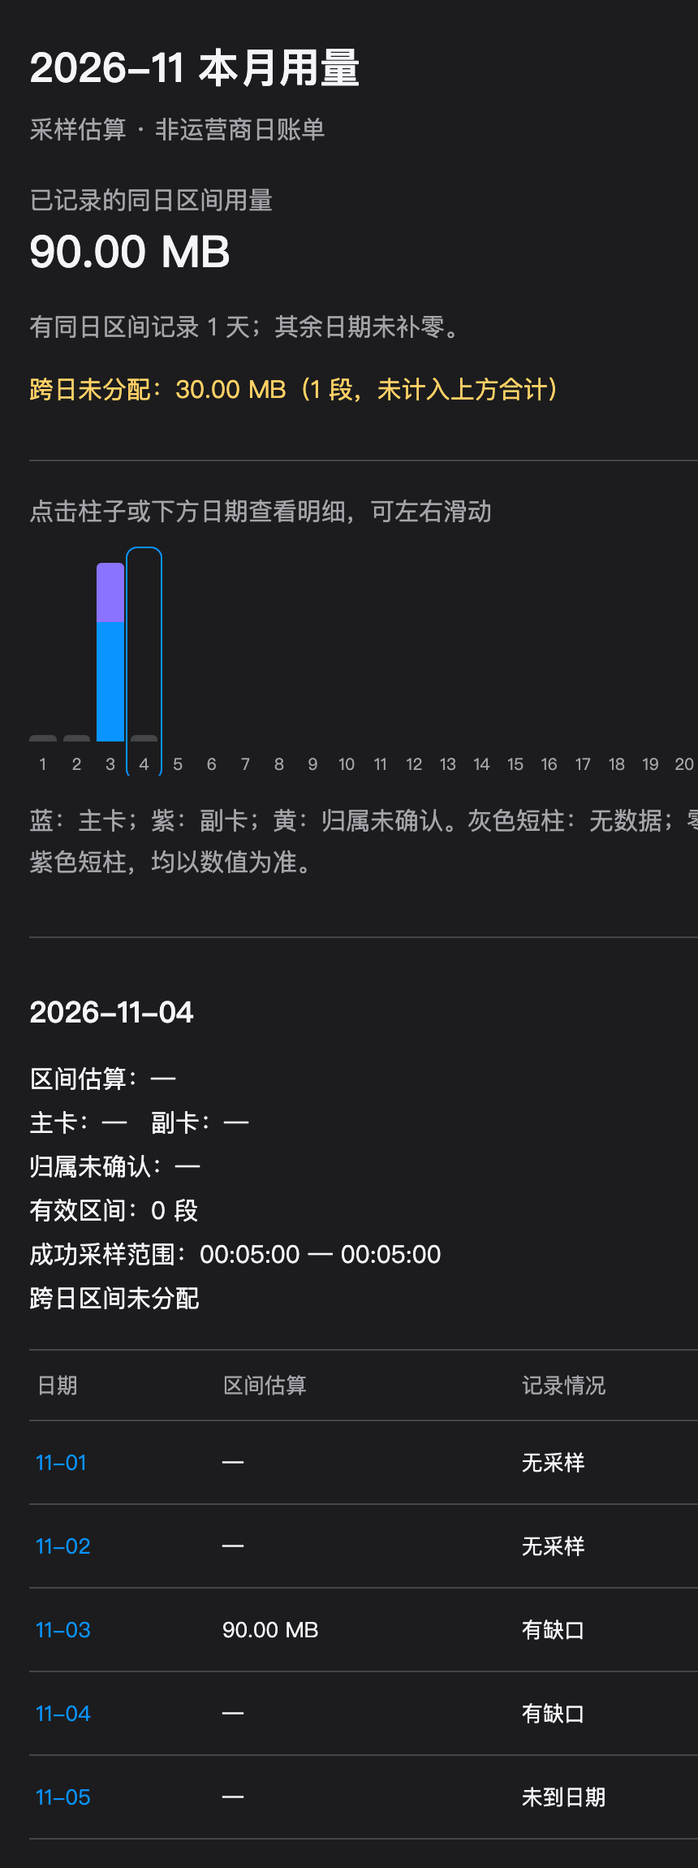
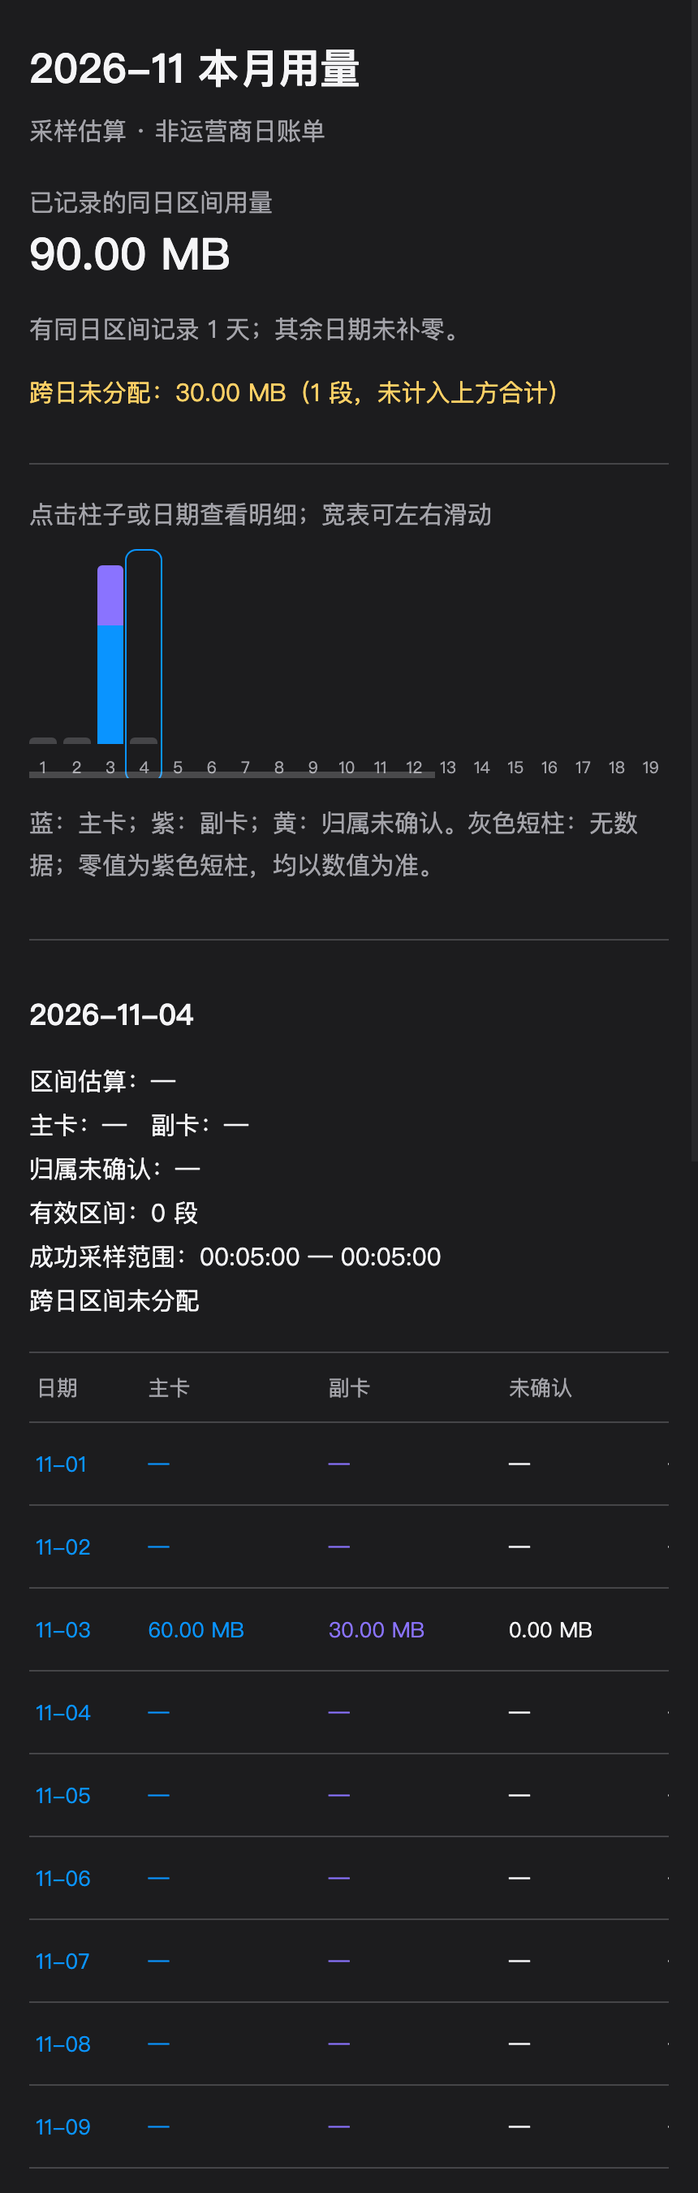
Add per-card report columns and rolling twelve-month usage chart

diff --git a/scriptable/UnicomFlow.js b/scriptable/UnicomFlow.js
@@ -419,7 +419,7 @@ function eventParts(event) {
 function updateMonths(previous, sample, prev, interval, note) {
   const months = JSON.parse(JSON.stringify(previous || {}));
   const now = new Date(sample.at);
-  const oldest = dayKey(new Date(now.getFullYear(), now.getMonth() - 1, 1).getTime()).slice(0, 7);
+  const oldest = dayKey(new Date(now.getFullYear(), now.getMonth() - 11, 1).getTime()).slice(0, 7);
   const current = dayKey(sample.at).slice(0, 7);
   for (const key of Object.keys(months)) if (key < oldest || key > current) delete months[key];
   const day = time => {
@@ -479,32 +479,60 @@ function monthlyReport(history, at = Date.now()) {
     crossDay, unallocatedMB: crossDay.reduce((sum, e) => sum + e.mb, 0), lastSuccess: history.data.at };
 }
 
+function yearlyReport(history, at = Date.now()) {
+  const now = new Date(at), current = dayKey(at).slice(0, 7);
+  const days = Array.from({ length: 12 }, (_, index) => {
+    const key = dayKey(new Date(now.getFullYear(), now.getMonth() - 11 + index, 1).getTime()).slice(0, 7);
+    const saved = history.months && history.months[key];
+    const daily = Object.values(saved && saved.days || {});
+    // 同月跨日区间无法拆到某一天，但可以准确归入该月，只计一次。
+    const cross = (saved && saved.crossDay || []).filter(e => dayKey(e.from).slice(0, 7) === key && dayKey(e.at).slice(0, 7) === key);
+    const records = [...daily.filter(d => d.intervals > 0), ...cross];
+    const parts = records.reduce((total, e) => {
+      total.mb += e.mb;
+      for (const [name, value] of Object.entries(eventParts(e))) total[name] += value;
+      return total;
+    }, { mb: 0, mainMB: 0, viceMB: 0, unknownMB: 0 });
+    const first = daily.map(d => d.first).filter(Number.isFinite), last = daily.map(d => d.last).filter(Number.isFinite);
+    return { key, day: key.slice(5) + '月', future: false,
+      mb: records.length ? parts.mb : null, mainMB: records.length ? parts.mainMB : null,
+      viceMB: records.length ? parts.viceMB : null, unknownMB: records.length ? parts.unknownMB : null,
+      intervals: daily.reduce((sum, d) => sum + d.intervals, 0) + cross.length,
+      first: first.length ? Math.min(...first) : null, last: last.length ? Math.max(...last) : null,
+      notes: [...new Set(daily.flatMap(d => d.notes).filter(note => note !== '跨日区间未分配'))] };
+  });
+  return { period: 'months', month: current, today: current, days,
+    totalMB: days.some(d => d.mb != null) ? days.reduce((sum, d) => sum + (d.mb || 0), 0) : null,
+    crossDay: [], unallocatedMB: 0, lastSuccess: history.data.at };
+}
+
 function monthlyHTML(report, stale = false) {
   // 数据仅有日期、区间与用量；不把账号号码、原始响应或 Cookie 传入页面。
   const payload = JSON.stringify(report).replace(/</g, '\\u003c');
-  return `<!doctype html><html lang="zh-CN"><head><meta name="viewport" content="width=device-width,initial-scale=1"><style>
+  return `<!doctype html><html lang="zh-CN"><head><meta charset="utf-8"><meta name="viewport" content="width=device-width,initial-scale=1"><style>
     :root{color-scheme:${UF.bg === 'FFFFFF' ? 'light' : 'dark'}}*{box-sizing:border-box}body{margin:0;padding:24px 18px;background:#${UF.bg};color:#${UF.text};font:15px -apple-system,sans-serif}
     h1{font-size:25px;margin:0 0 8px}h2{font-size:18px}.muted{color:#${UF.muted};line-height:1.7}strong{font-size:27px;font-weight:500}.panel{padding:18px 0;border-bottom:1px solid #${UF.track}}
-    .scroll{overflow-x:auto}.chart{display:flex;align-items:stretch;gap:4px;min-width:620px;height:150px;padding-top:12px}button{font:inherit;color:inherit;cursor:pointer}.bar{flex:1;min-width:15px;border:0;border-radius:4px;background:transparent;padding:0;display:flex;flex-direction:column;align-items:center;justify-content:flex-end;gap:7px}.bar.selected{outline:1px solid #${UF.blue};outline-offset:2px}.fill{width:100%;border-radius:3px 3px 0 0;background:#${UF.purple};display:flex;flex-direction:column-reverse;overflow:hidden}.segment{display:block;width:100%}.missing{background:#${UF.track}}.future{background:transparent}.day{font-size:10px;color:#${UF.muted}}
-    table{width:100%;border-collapse:collapse}th,td{text-align:left;padding:12px 4px;border-bottom:1px solid #${UF.track};font-size:13px}th{color:#${UF.muted};font-weight:400}.date{border:0;background:none;padding:4px 0;color:#${UF.blue}}#detail{line-height:1.8;white-space:pre-line}.warning{color:#${UF.warning}}details{line-height:1.7}summary{padding:15px 0}
+    .scroll{overflow-x:auto;max-width:100%}.chart{display:flex;align-items:stretch;gap:4px;min-width:${report.period === 'months' ? 0 : 620}px;height:150px;padding-top:12px}button{font:inherit;color:inherit;cursor:pointer}.bar{flex:1;min-width:15px;border:0;border-radius:4px;background:transparent;padding:0;display:flex;flex-direction:column;align-items:center;justify-content:flex-end;gap:7px}.bar.selected{outline:1px solid #${UF.blue};outline-offset:2px}.fill{width:100%;border-radius:3px 3px 0 0;background:#${UF.purple};display:flex;flex-direction:column-reverse;overflow:hidden}.segment{display:block;width:100%}.missing{background:#${UF.track}}.future{background:transparent}.day{font-size:10px;color:#${UF.muted}}
+    table{width:100%;min-width:600px;border-collapse:collapse}td{white-space:nowrap}th,td{text-align:left;padding:12px 4px;border-bottom:1px solid #${UF.track};font-size:13px}th{color:#${UF.muted};font-weight:400}.date{border:0;background:none;padding:4px 0;color:#${UF.blue}}#detail{line-height:1.8;white-space:pre-line}.warning{color:#${UF.warning}}details{line-height:1.7}summary{padding:15px 0}
     </style></head><body><h1 id="title">本月用量</h1><div class="muted">采样估算 · 非运营商日账单${stale ? ' · 当前为缓存' : ''}</div>
-    <section class="panel"><div class="muted">已记录的同日区间用量</div><strong id="total"></strong><p id="coverage" class="muted"></p><p id="unallocated" class="warning"></p></section>
-    <section class="panel"><div class="muted">点击柱子或下方日期查看明细，可左右滑动</div><div class="scroll"><div id="chart" class="chart"></div></div><p class="muted">蓝：主卡；紫：副卡；黄：归属未确认。灰色短柱：无数据；零值为紫色短柱，均以数值为准。</p></section>
-    <section class="panel"><h2 id="selected"></h2><div id="detail"></div></section><table><thead><tr><th>日期</th><th>区间估算</th><th>记录情况</th></tr></thead><tbody id="rows"></tbody></table>
-    <details><summary>统计口径与跨日区间</summary><p class="muted">仅统计两次成功查询在同一天、套餐口径一致且累计计数未回退的差值。未采样不等于零；当天记录也可能只覆盖部分时段。跨日区间单列，不摊到每天；跨月、套餐变化和计数回退时重新建立基线，已有日记录保留。联通记账可能延迟。</p><div id="cross" class="muted"></div></details>
+    <section class="panel"><div class="muted">${report.period === 'months' ? '已记录的月用量（含同月跨日区间）' : '已记录的同日区间用量'}</div><strong id="total"></strong><p id="coverage" class="muted"></p><p id="unallocated" class="warning"></p></section>
+    <section class="panel"><div class="muted">点击柱子或${report.period === 'months' ? '月份' : '日期'}查看明细；宽表可左右滑动</div><div class="scroll"><div id="chart" class="chart"></div></div><p class="muted">蓝：主卡；紫：副卡；黄：归属未确认。灰色短柱：无数据；零值为紫色短柱，均以数值为准。</p></section>
+    <section class="panel"><h2 id="selected"></h2><div id="detail"></div></section><div class="scroll"><table><thead><tr><th>${report.period === 'months' ? '月份' : '日期'}</th><th>主卡</th><th>副卡</th><th>未确认</th><th>合计</th><th>记录情况</th></tr></thead><tbody id="rows"></tbody></table></div>
+    <details><summary>统计口径与跨日区间</summary><p class="muted">仅统计两次成功查询在同一天、套餐口径一致且累计计数未回退的差值。未采样不等于零；当天记录也可能只覆盖部分时段。跨日区间单列，不摊到每天；月度汇总可将同月跨日区间计入对应月份；跨月缺口不推算。跨月、套餐变化和计数回退时重新建立基线，已有记录保留。联通记账可能延迟。</p><div id="cross" class="muted"></div></details>
     <p id="updated" class="muted"></p><script>
     const report=${payload};
+    const annual=report.period==='months';
     const byId=id=>document.getElementById(id);
     const amount=mb=>mb==null?'—':mb>=1024?(mb/1024).toFixed(2)+' GB':mb.toFixed(2)+' MB';
-    const clock=t=>t==null?'无':new Date(t).toLocaleTimeString('zh-CN',{hour12:false});
+    const clock=t=>t==null?'无':annual?new Date(t).toLocaleString('zh-CN',{hour12:false}):new Date(t).toLocaleTimeString('zh-CN',{hour12:false});
     const state=d=>d.future?'未到日期':d.notes.length?'有缺口':d.mb!=null?'采样区间':d.first!=null?'仅基线':'无采样';
     const select=d=>{byId('selected').textContent=d.key;byId('detail').textContent='区间估算：'+amount(d.mb)+'\\n主卡：'+amount(d.mainMB)+'　副卡：'+amount(d.viceMB)+'\\n归属未确认：'+amount(d.unknownMB)+'\\n有效区间：'+d.intervals+' 段\\n成功采样范围：'+clock(d.first)+' — '+clock(d.last)+'\\n'+(d.notes.join('；')||'仅代表已记录区间，未采样时段不补零');document.querySelectorAll('.bar').forEach(b=>b.classList.toggle('selected',b.dataset.key===d.key));};
-    byId('title').textContent=report.month+' 本月用量';byId('total').textContent=amount(report.totalMB);
-    byId('coverage').textContent='有同日区间记录 '+report.days.filter(d=>d.mb!=null).length+' 天；其余日期未补零。';
-    byId('unallocated').textContent='跨日未分配：'+amount(report.unallocatedMB)+'（'+report.crossDay.length+' 段，未计入上方合计）';
+    byId('title').textContent=annual?'近12个月（含本月）':report.month+' 本月用量';byId('total').textContent=amount(report.totalMB);
+    byId('coverage').textContent=(annual?'有用量记录 ':'有同日区间记录 ')+report.days.filter(d=>d.mb!=null).length+(annual?' 个月；无数据月份未补零。':' 天；其余日期未补零。');
+    byId('unallocated').textContent=annual?'同月跨日区间已并入所属月份；跨月缺口未推算。':'跨日未分配：'+amount(report.unallocatedMB)+'（'+report.crossDay.length+' 段，未计入上方合计）';
     const max=Math.max(1,...report.days.map(d=>d.mb||0));
     for(const d of report.days){const bar=document.createElement('button');bar.className='bar';bar.dataset.key=d.key;bar.title=d.key+' '+amount(d.mb);bar.setAttribute('aria-label',bar.title);const fill=document.createElement('span');fill.className='fill'+(d.future?' future':d.mb==null?' missing':'');fill.style.height=(d.future?0:d.mb==null?4:Math.max(4,d.mb/max*110))+'px';if(d.mb>0){fill.style.background='transparent';for(const [value,color] of [[d.mainMB,'#${UF.blue}'],[d.viceMB,'#${UF.purple}'],[d.unknownMB,'#${UF.warning}']]){if(value>0){const segment=document.createElement('span');segment.className='segment';segment.style.height=(value/d.mb*100)+'%';segment.style.background=color;fill.append(segment);}}}const label=document.createElement('span');label.className='day';label.textContent=d.day;bar.append(fill,label);bar.onclick=()=>select(d);byId('chart').append(bar);
-    const tr=document.createElement('tr');const date=document.createElement('td');const button=document.createElement('button');button.className='date';button.textContent=d.key.slice(5);button.onclick=()=>select(d);date.append(button);const value=document.createElement('td');value.textContent=amount(d.mb);const status=document.createElement('td');status.textContent=state(d);tr.append(date,value,status);byId('rows').append(tr);}
+    const tr=document.createElement('tr');const date=document.createElement('td');const button=document.createElement('button');button.className='date';button.textContent=annual?d.key:d.key.slice(5);button.onclick=()=>select(d);date.append(button);const main=document.createElement('td');main.textContent=amount(d.mainMB);main.style.color='#${UF.blue}';const vice=document.createElement('td');vice.textContent=amount(d.viceMB);vice.style.color='#${UF.purple}';const unknown=document.createElement('td');unknown.textContent=amount(d.unknownMB);const value=document.createElement('td');value.textContent=amount(d.mb);const status=document.createElement('td');status.textContent=state(d);tr.append(date,main,vice,unknown,value,status);byId('rows').append(tr);}
     for(const e of report.crossDay){const p=document.createElement('p');p.textContent=new Date(e.from).toLocaleString('zh-CN',{hour12:false})+' → '+new Date(e.at).toLocaleString('zh-CN',{hour12:false})+'：'+amount(e.mb)+'（主 '+amount(e.mainMB)+' / 副 '+amount(e.viceMB)+' / 未确认 '+amount(e.unknownMB)+'）';byId('cross').append(p);}
     byId('updated').textContent='最后成功查询：'+new Date(report.lastSuccess).toLocaleString('zh-CN',{hour12:false});select(report.days.find(d=>d.key===report.today)||report.days[0]);
     </script></body></html>`;
@@ -956,6 +984,14 @@ function createWidgetClass(DmYY) {
       await view.present();
     }
 
+    async showYearlyUsage() {
+      await this.loadResult();
+      if (!this.result) return alertMessage('近12个月', this.failure || '请先成功查询一次套餐');
+      const view = new WebView();
+      await view.loadHTML(monthlyHTML(yearlyReport(this.result.history), this.result.stale));
+      await view.present();
+    }
+
     async memberDiagnostics() {
       await this.loadResult();
       const report = this.result && this.result.history.data.memberReport;
@@ -972,7 +1008,7 @@ function createWidgetClass(DmYY) {
     }
 
     async clearHistory() {
-      const confirm = new Alert(); confirm.title = '清除历史？'; confirm.message = '清除本组件的快照、小时图及本月／上月日记录；QX Cookie 保留。';
+      const confirm = new Alert(); confirm.title = '清除历史？'; confirm.message = '清除本组件的快照、小时图及近12个月日记录；QX Cookie 保留。';
       confirm.addDestructiveAction('清除'); confirm.addCancelAction('取消');
       if (await confirm.presentAlert() === 0) { this.store.clear(); this.result = null; }
     }
@@ -1024,6 +1060,7 @@ function createWidgetClass(DmYY) {
         action('flowAccount', '账户设置', 'person.crop.circle', '#FF9500', () => alertMessage('账户设置',
           '使用 QX 现有联通重写保存的 YaYa_10010.cookie，无需手动填写。\n\nCookie 失效时进入联通 App 首页 → 流量查询，再点“代理缓存”刷新。')),
         action('flowMonthly', '本月用量', 'chart.bar.xaxis', '#8A73FF', () => this.showMonthlyUsage()),
+        action('flowYearly', '近12个月', 'calendar', '#007AFF', () => this.showYearlyUsage()),
         action('flowMembers', '主副卡用量', 'person.2.fill', '#5856D6', () => this.showMembers()),
         action('flowMemberDiagnostics', '成员字段检查', 'doc.text.magnifyingglass', '#8E8E93', () => this.memberDiagnostics()),
         action('flowProxy', '代理缓存', 'shippingbox.fill', '#34C759', () => this.refreshFromQX()),
@@ -1041,7 +1078,7 @@ function createWidgetClass(DmYY) {
 async function refreshWithFeedback(instance, medium) {
   const view = new WebView();
   // 先展示触发状态再请求，不把加载文字当作新的成功查询时间。
-  await view.loadHTML(`<!doctype html><html><head><meta name="viewport" content="width=device-width,initial-scale=1"><style>
+  await view.loadHTML(`<!doctype html><html><head><meta charset="utf-8"><meta name="viewport" content="width=device-width,initial-scale=1"><style>
     body{margin:0;padding:32px 22px;background:#${UF.bg};color:#${UF.text};font:16px -apple-system,sans-serif;text-align:center}
     #spin{margin:28px auto;width:22px;height:22px;border:3px solid #8885;border-top-color:#${UF.blue};border-radius:50%;animation:turn .7s linear infinite}
     @keyframes turn{to{transform:rotate(360deg)}}h2{font-size:21px}p{line-height:1.6;color:#${UF.muted}}

diff --git a/docs/unicom-flow/README.md b/docs/unicom-flow/README.md
@@ -19,7 +19,7 @@
 
 - 预览组件：小尺寸、中尺寸。
 - 组件配置：脚本更新、显示方式（统一显示／主副卡分开显示）、组件主题（黑色／白色）、数字字体、套餐分类、颜色配置（底色、数字与标题、进度条、历史图）。
-- 账户与数据：本月用量、账户设置（说明现有 QX Cookie 来源，无需输入）、主副卡用量、成员字段检查、代理缓存、连接检查。
+- 账户与数据：本月用量、近12个月、账户设置（说明现有 QX Cookie 来源，无需输入）、主副卡用量、成员字段检查、代理缓存、连接检查。
 - 基础设置：BoxJS 域名、刷新间隔、清除历史、重载组件。
 
 “代理缓存”是直接读取 `@YaYa_10010.cookie` 后刷新套餐，不调用 DmYY 的批量导入方法；不把 Cookie 保存进 DmYY 设置。DmYY 只保存颜色、刷新间隔等界面配置。
@@ -99,7 +99,7 @@
 - 跨午夜的区间不计入今日图，防止把昨天的用量算到今天。
 - 跨月、套餐组合／总量变化或计数回退时重建小时图基线；月度已记录的有效区间保留，并标记当日缺口。手动修改分类会清除历史，避免混用分类口径。
 - Cookie 内容变化时重建基线，防止切换账号后混用缓存；同一账号重新登录也可能触发重建。
-- 小时区间记录保留七天，图表只展示当天；日聚合保存本月和上月。菜单“清除历史”会一并删除两类记录，QX Cookie 不受影响。
+- 小时区间记录保留七天，图表只展示当天；日聚合保存最近12个月（含本月）。菜单“清除历史”会一并删除小时记录和最近12个月的日记录，QX Cookie 不受影响。
 
 中号仅右上角的刷新图标响应手动刷新，点击范围为 44×44 点；其他位置及小号整卡均不在脚本中设置 URL，遵循 Scriptable 小组件设置中的 Open App、Run Script、Open Script 或 Open URL。小号保留系统自动刷新。查询失败的错误卡片也遵循上述用户设置。点击后打开 Scriptable 的反馈页，先显示旋转加载提示，再显示刷新成功或失败及最新组件预览；失败时保留上次成功时间并标记缓存。桌面卡片本身不支持即时状态动画。Scriptable 内直接运行脚本仍打开配置菜单。桌面重绘由 iOS 调度，点击查询不能保证桌面所有尺寸卡片同时立即更新。
 
@@ -109,18 +109,30 @@
 
 从 Scriptable 运行脚本，在“账户与数据 → 本月用量”查看。桌面图表仍保持今日小时视图，不增加小号内容。
 
-页面提供整月每日柱状图和日期列表，可点击日期或柱子查看有效区间数、当天最早／最晚成功采样时间和缺口说明；窄屏可左右滑动柱状图。合计统计所有未排除套餐的同日区间增量，主卡蓝色、副卡紫色堆叠显示；主卡包含共享部分和用户确认的独享包，未知归属为黄色，也不是账单中的月累计值。当天采样范围不代表中间所有时刻都有采样。逐卡数据要求区间两端的套餐成员归属明确、合计与套餐池一致，且各卡计数未回退；缺失或冲突只保留为黄色未确认用量，不用共享池减出缺失卡片。
+页面提供整月每日堆叠柱状图和日期列表；明细表直接列出主卡、副卡、未确认、合计及记录情况，可横向滑动查看全部列。可点击日期或柱子查看有效区间数、当天最早／最晚成功采样时间和缺口说明；窄屏可左右滑动柱状图。合计统计所有未排除套餐的同日区间增量，主卡蓝色、副卡紫色堆叠显示；主卡包含共享部分和用户确认的独享包，未知归属为黄色，也不是账单中的月累计值。当天采样范围不代表中间所有时刻都有采样。逐卡数据要求区间两端的套餐成员归属明确、合计与套餐池一致，且各卡计数未回退；缺失或冲突只保留为黄色未确认用量，不用共享池减出缺失卡片。
 
 - **采样估算**：仅将同一天内、套餐口径一致且计数未回退的两次查询差值归入当天；没有记录的日期数值显示“—”，不会填零；过去日期显示灰色短柱占位，已采样的零值显示紫色短柱，未来日期不画柱。采样范围内增量为零的有效区间才显示零。
 - **跨日区间**：能确认增量但不能拆分到各天时，单列“跨日未分配”，不纳入每日柱或同日合计，也不平均摊分。详情中可查看起止时间及主副卡、未确认部分。
 - **首次与缺口**：首次查询只建立基线，之前的用量不能恢复；跨月、套餐变化或计数回退会标记缺口，之后继续累加可确认的新区间，不抹掉本月已有日记录。
 - **旧历史清空**：按用户要求，本次切换逐卡统计后不导入旧总量历史。首次成功查询覆盖旧历史文件并建立新基线，不保留备份；下一次有效查询才开始累积。旧版缓存也不再用于显示旧统计。后续运行保留新历史，不会每次清空。主题、字体和 QX Cookie 不受影响。
-- **保存方式**：同一份本地 `Documents/UnicomFlow/history.json` 增加 `months` 日聚合（本月及上月），小时 `events` 仍只保留七天。月度不逐条保存日内请求，避免数据随刷新次数持续膨胀。换账号／Cookie 会隔离历史；分类变更或“清除历史”会清空月度记录。
+- **保存方式**：同一份本地 `Documents/UnicomFlow/history.json` 增加 `months` 日聚合（最近12个月，含本月），小时 `events` 仍只保留七天。月度不逐条保存日内请求，避免数据随刷新次数持续膨胀。换账号／Cookie 会隔离历史；分类变更或“清除历史”会清空月度记录。
 - **查询失败**：仍可查看缓存，并显示最后成功时间；没有任何成功缓存时提示先查询。iOS 调度和运营商记账延迟都会影响覆盖范围，因此页面始终标为“非运营商日账单”。
 
 [月度页面手机宽度预览](preview-monthly.png)使用模拟数据，展示主副卡双色堆叠和跨日缺口。
 
 本地验证覆盖日聚合、真实零值／缺失值、跨日未分配、跨月保留与裁剪、闰年、乱序／重复采样、套餐变化、计数回退、账号隔离、旧历史清空、离线缓存与日期交互。页面用模拟数据做手机宽度排版检查；实际接口与 iOS WebView 仍需手机验证。
+
+## 近12个月
+
+“账户与数据 → 近12个月”按自然月展示最近12个月，**包含本月**。采用主卡蓝色、副卡紫色的堆叠柱状图，归属不明的部分为黄色；同一张图可比较每月总量和主副卡构成。点击月份查看区间数与采样范围，表格同时列出主卡、副卡、未确认和合计。
+
+月用量来自本地有效区间累计，不会调用详单接口补取过去的账单。未积累的月份显示“—”及灰色占位短柱；真实零值才显示零。本月仍在积累，历史月份也不保证采样完整。
+
+同月跨日区间虽然无法分到某一天，但可以确定属于该月，因此纳入月汇总，且只计一次。这使月汇总可能大于“本月用量”页上方的同日区间合计；后者把跨日区间单列。跨月、计数回退及套餐变化导致的缺口不会插值补全。
+
+本次仅将日聚合保留范围扩展到最近12个月，保留现有逐卡新记录，不再执行一次性旧格式重置。换账号、手动修改分类或清除历史仍会按原规则清空相应统计。
+
+[近12个月页面预览](preview-yearly.png)使用模拟数据，仅一个月份有采样记录。
 
 ## 查询失败
 
